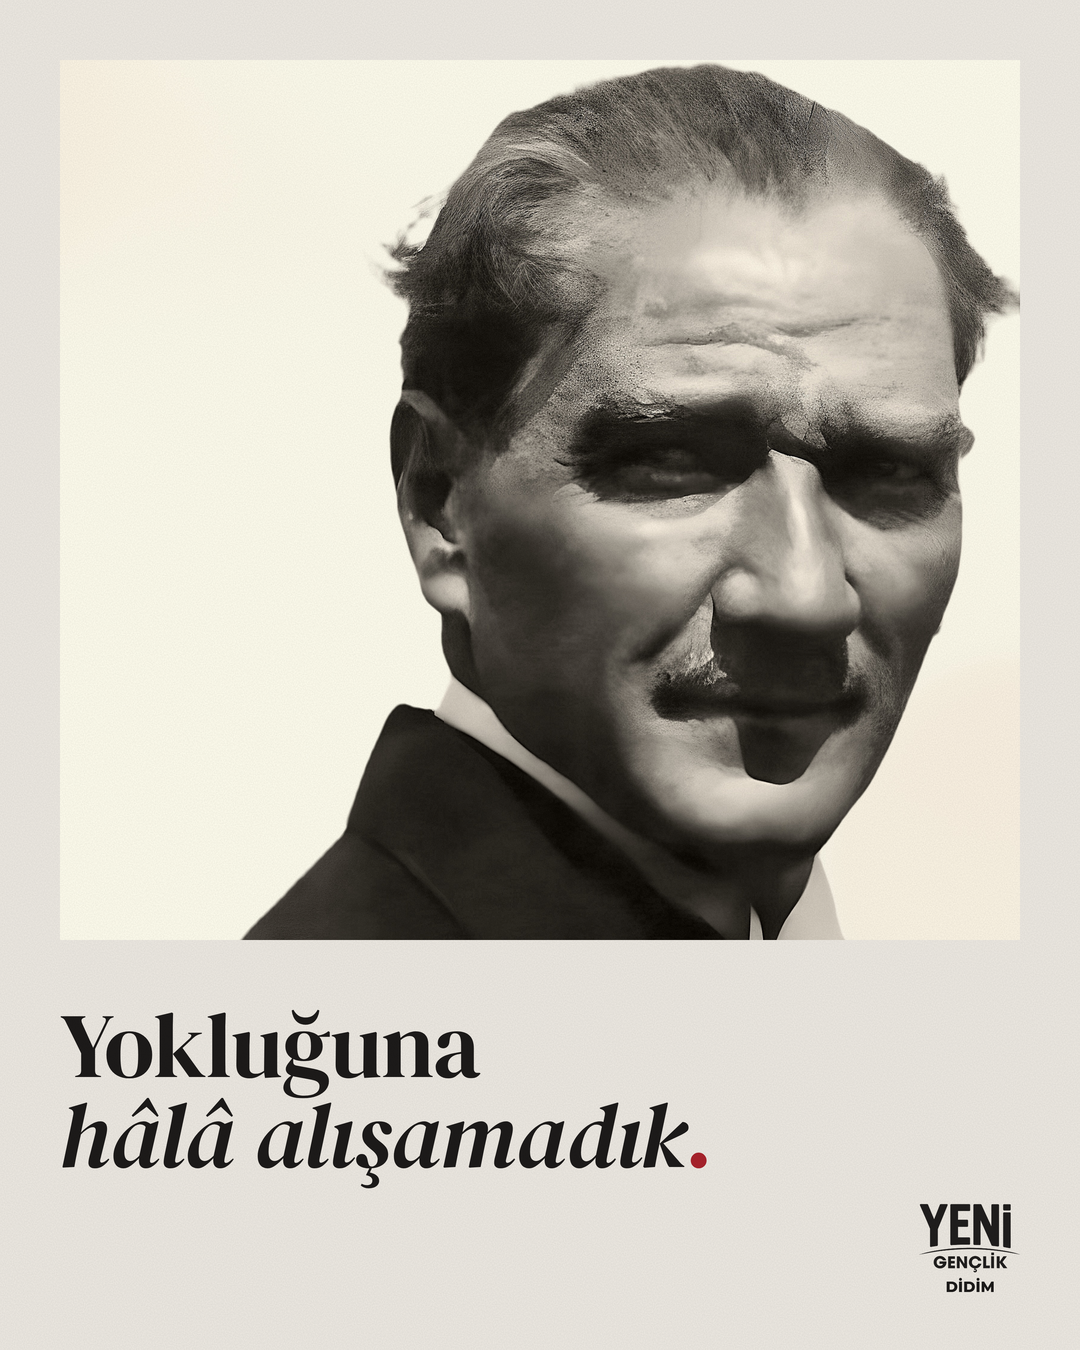
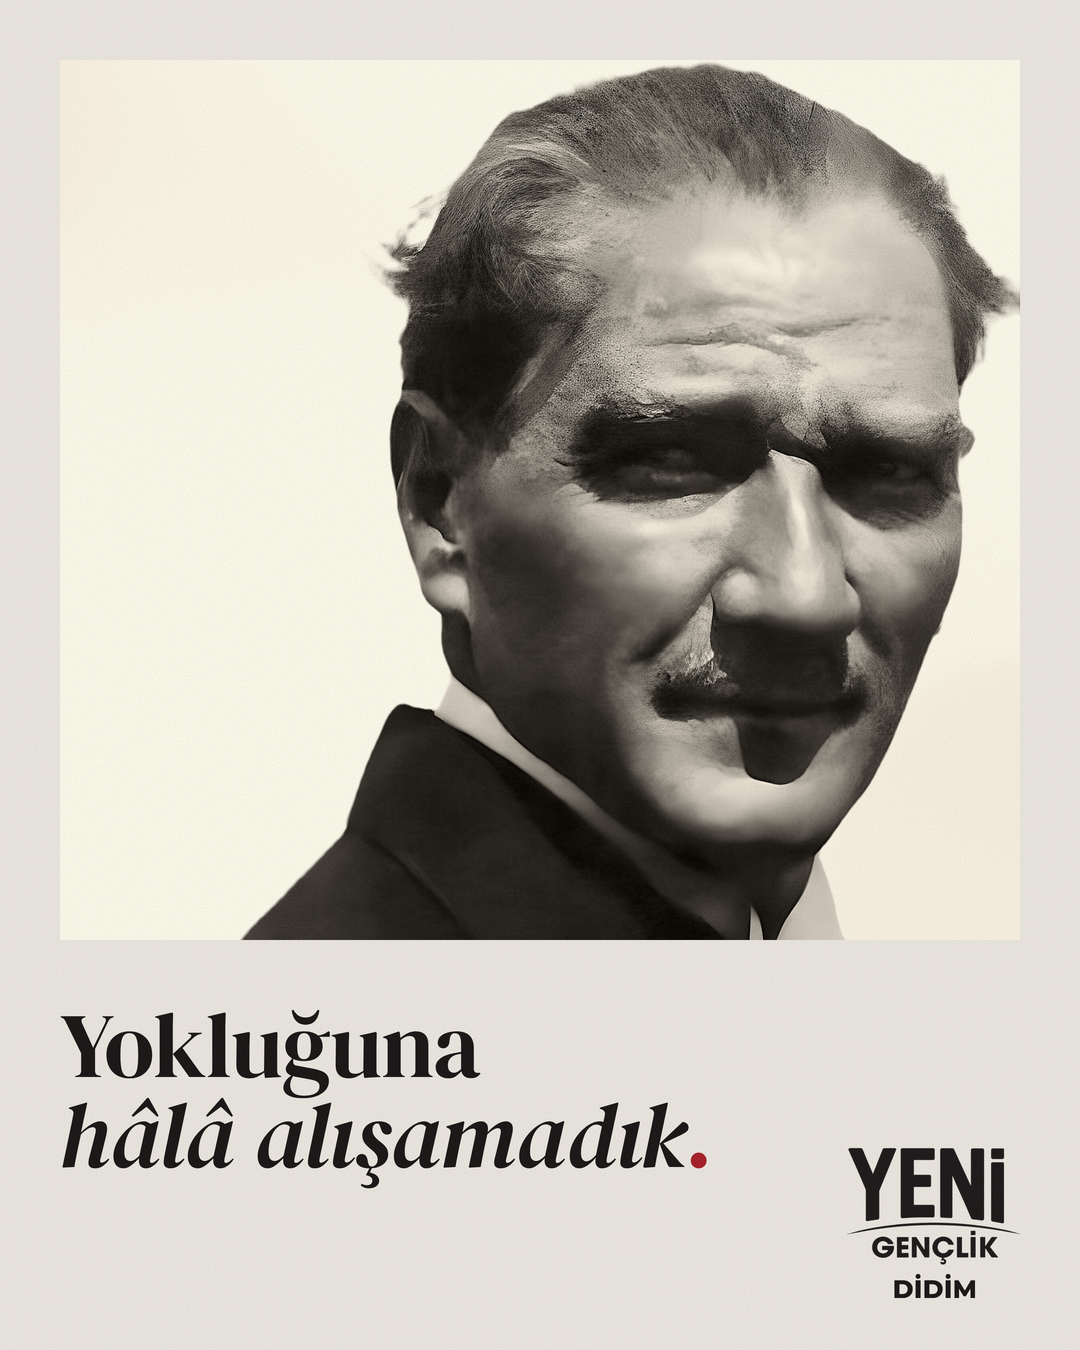
10 Kasım modern: Yeni Gençlik Didim logosu büyütüldü, sağ köşede
Claude-Session: https://claude.ai/code/session_01SatttGbgBLoCnk9KGLypWv

Changed region(s): [[0.7944, 0.84, 0.9472, 0.9644]]

diff --git a/tasarim/kisisel/10-kasim/bugra-modern/sade-imzasiz.html b/tasarim/kisisel/10-kasim/bugra-modern/sade-imzasiz.html
@@ -12,10 +12,10 @@ html,body{margin:0;width:1080px;height:1350px;overflow:hidden;background:var(--k
 .soz{position:absolute;left:60px;top:1000px;font:92px/.98 DS;color:var(--murekkep);letter-spacing:-.01em}
 .soz em{font-family:DSi;font-style:normal}
 .soz b{color:var(--kir);font-weight:normal}
-.alt{position:absolute;left:60px;right:60px;bottom:58px;display:flex;justify-content:flex-end;align-items:flex-end}
+.alt{position:absolute;left:60px;right:60px;bottom:52px;display:flex;justify-content:flex-end;align-items:flex-end}
 .not{font:15px/1.7 JB;letter-spacing:.16em;color:var(--soluk)}
 .imza{display:flex;align-items:center;gap:22px}
-.imza .lg{height:88px}.imza .ay{width:1px;height:80px;background:#b8b1a8}.imza .is{height:84px}
+.imza .lg{height:150px}.imza .ay{width:1px;height:80px;background:#b8b1a8}.imza .is{height:84px}
 .gren{position:absolute;inset:0;opacity:.22;mix-blend-mode:multiply;pointer-events:none}
 </style><body>
 <div class="foto"><img src="ataturk2-net.jpg"></div>
